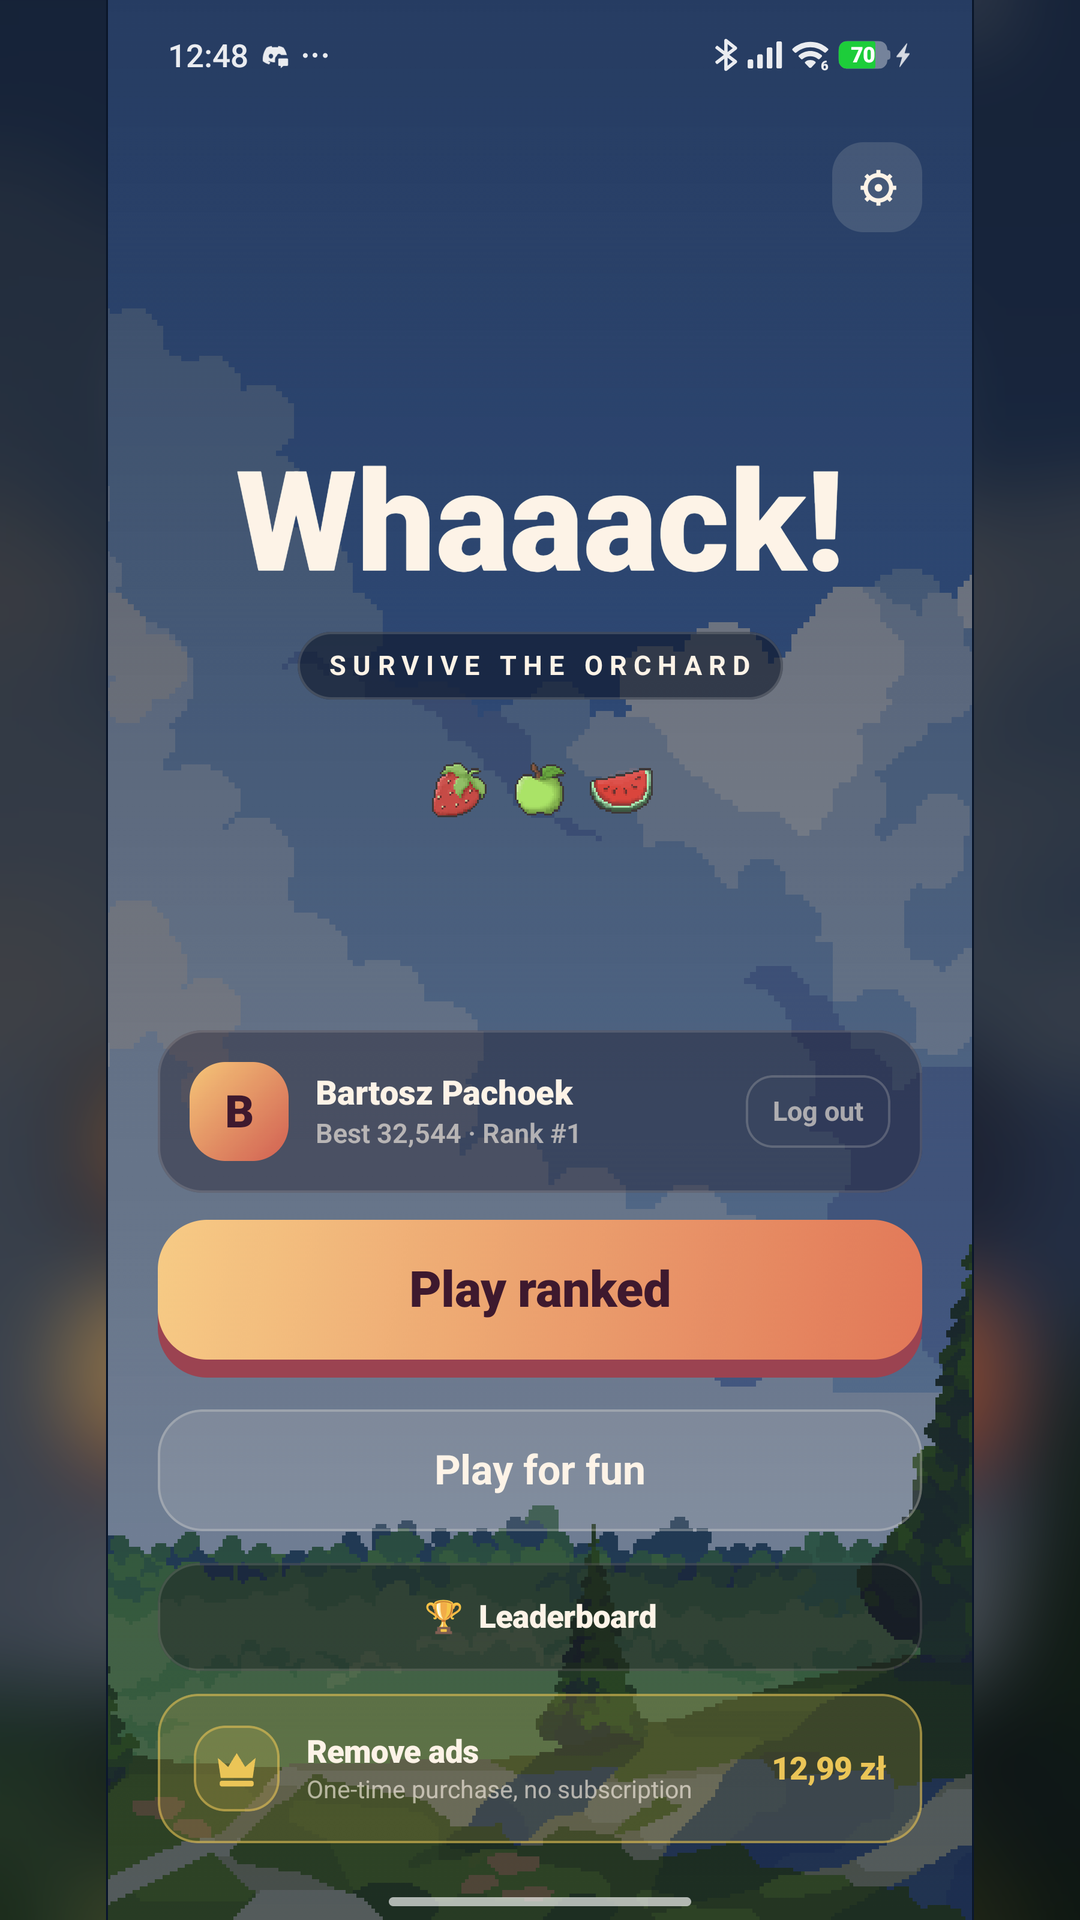
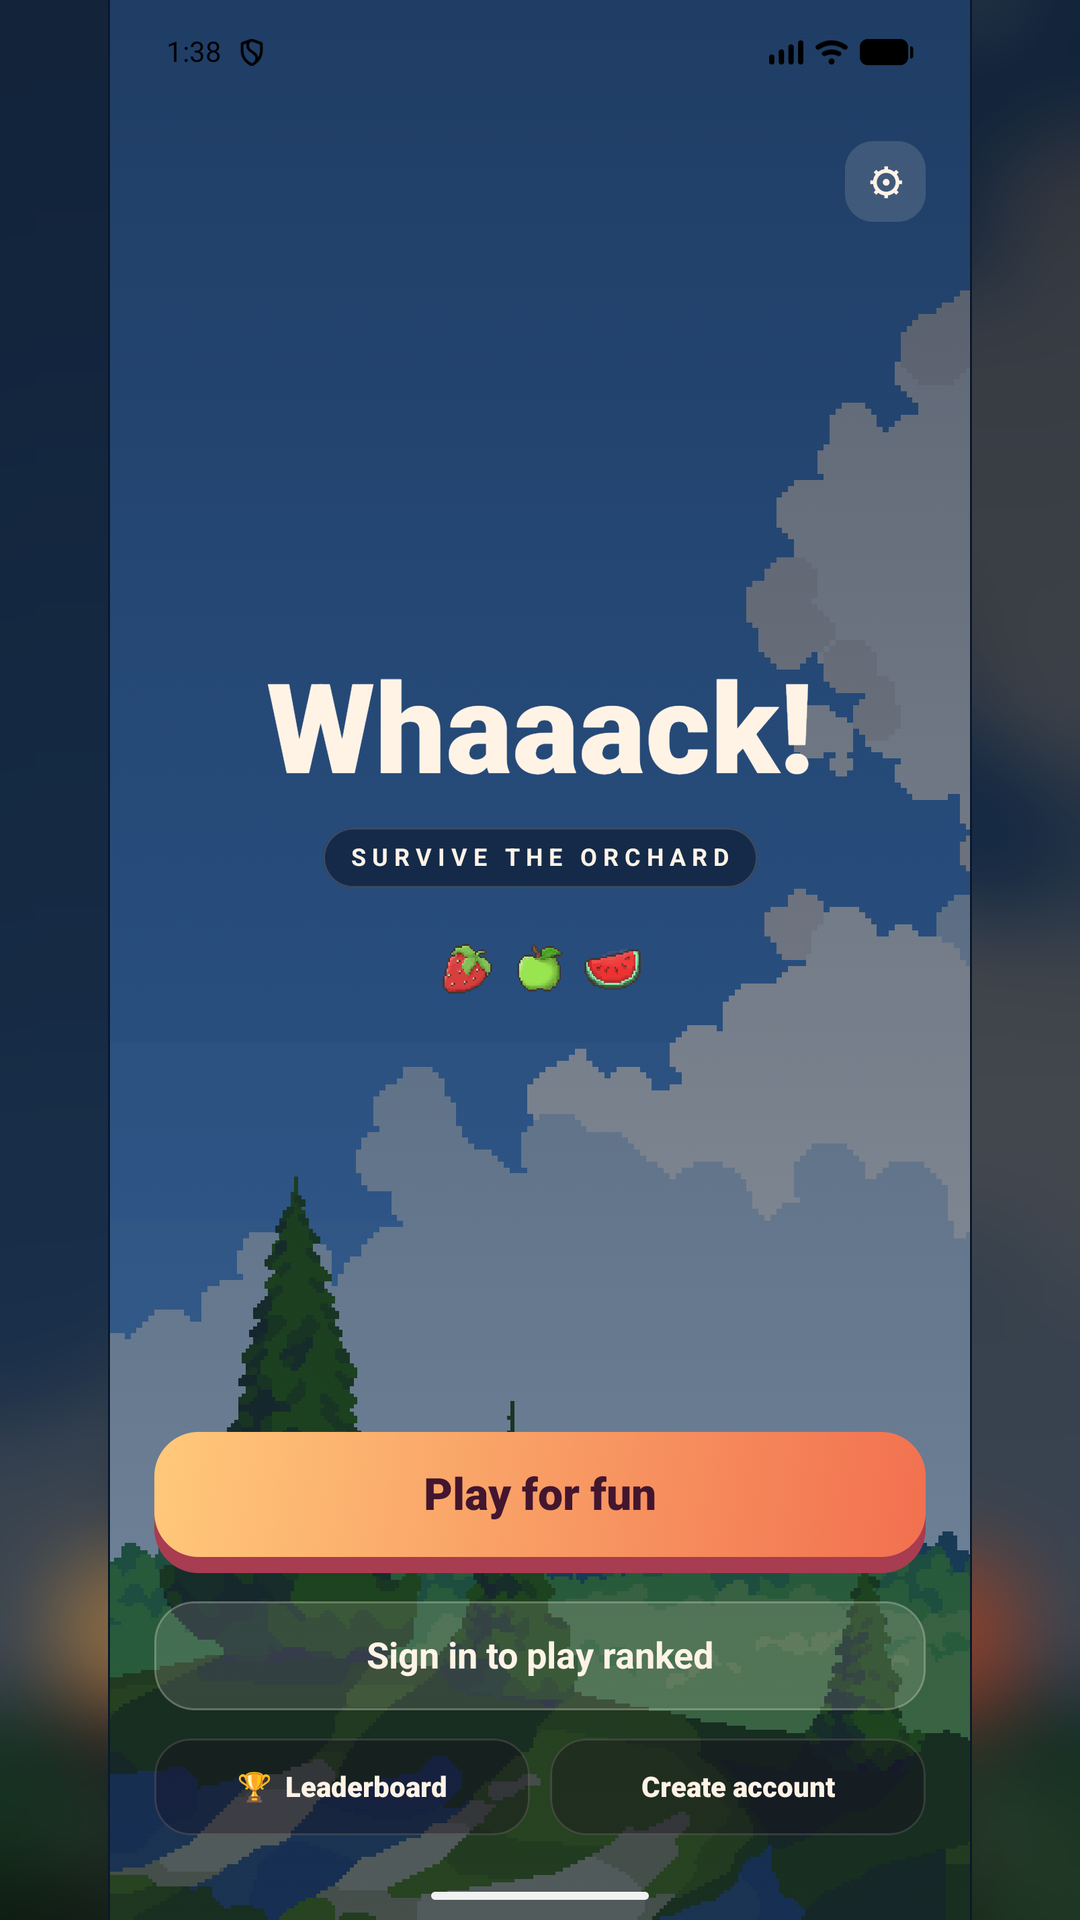
Shoot the store screenshots with the ad-free state, not the placeholder price
The home shot was advertising "Remove ads 12,99 zl", which is the debug
placeholder out of local.properties and not a price anyone will be charged. A
listing screenshot quoting a price that does not match checkout is the kind of
thing Play's misrepresentation rules exist for, and it was the same placeholder
we traced through BuildConfig earlier the same day.

Blanking the placeholder hides the upsell row, because removeAdsPrice goes null
and canBuyRemoveAds with it. That is not enough on its own: the game-over
screen's "AD MAY PLAY BEFORE NEXT SCREEN" caption is driven by adsAvailable,
which is consent and the entitlement, not the price. So the capture ran against
an entitlement written straight into the app's DataStore on the debuggable
build, which is what actually puts the app in the state a paying player sees.

Only those two screens needed re-shooting. A gameplay frame carries no ad
surface at all, so the board, the HUD, the splats and the strike flash are the
same real capture as before.

One trap worth recording, and it is the one the capture tooling already warns
about: removing the upsell row moves every home button DOWN, so the tap that
starts a run missed and a whole capture pass came back as twenty-two identical
frames of the home screen. Play for fun sits at y=2221 on an ad-free build
against y=1994 with the row present.

diff --git a/tools/make_store_screenshots.py b/tools/make_store_screenshots.py
@@ -27,13 +27,13 @@ W, H = 1080, 1920
 # Source frame -> output name. The order is the order Play shows them in, so it reads as a
 # run: the orchard, the countdown, play, the mistake, the score, the board.
 SHOTS = [
-    ("01_home_phone.png", "01-home"),
+    ("01_home_adfree.png", "01-home"),
     ("02_countdown.png", "02-countdown"),
     ("03_early.png", "03-first-fruit"),
     ("04_splats.png", "04-splats"),
     ("06_late.png", "05-faster"),
     ("strike_03.png", "06-strike"),
-    ("07_gameover.png", "07-game-over"),
+    ("07_gameover_adfree.png", "07-game-over"),
     ("08_leaderboard.png", "08-leaderboard"),
 ]
 
